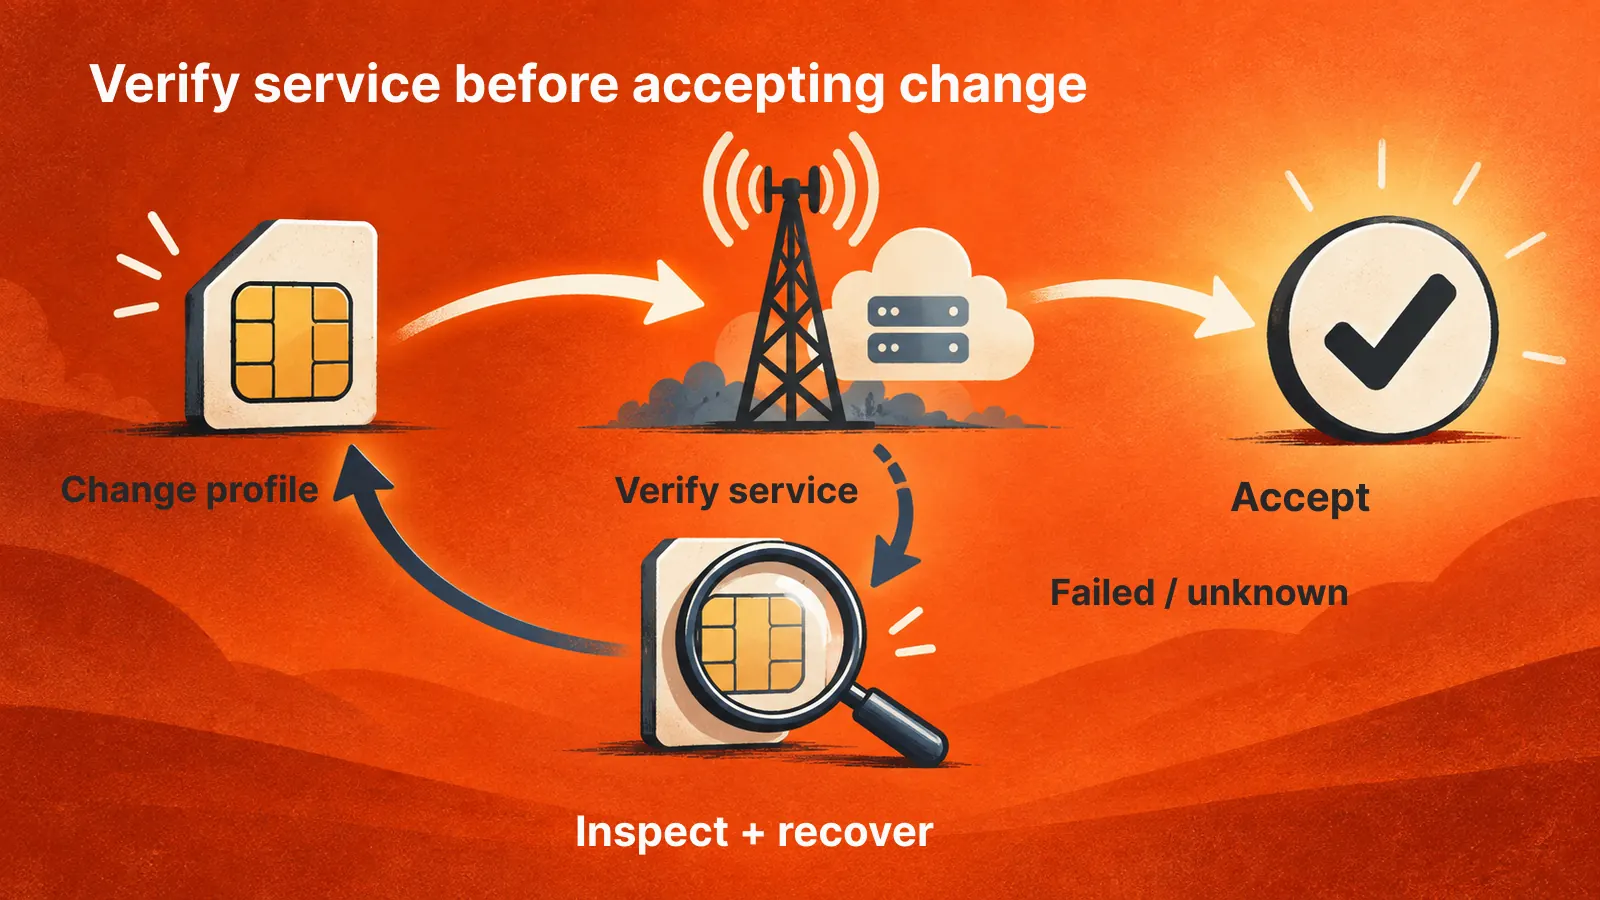
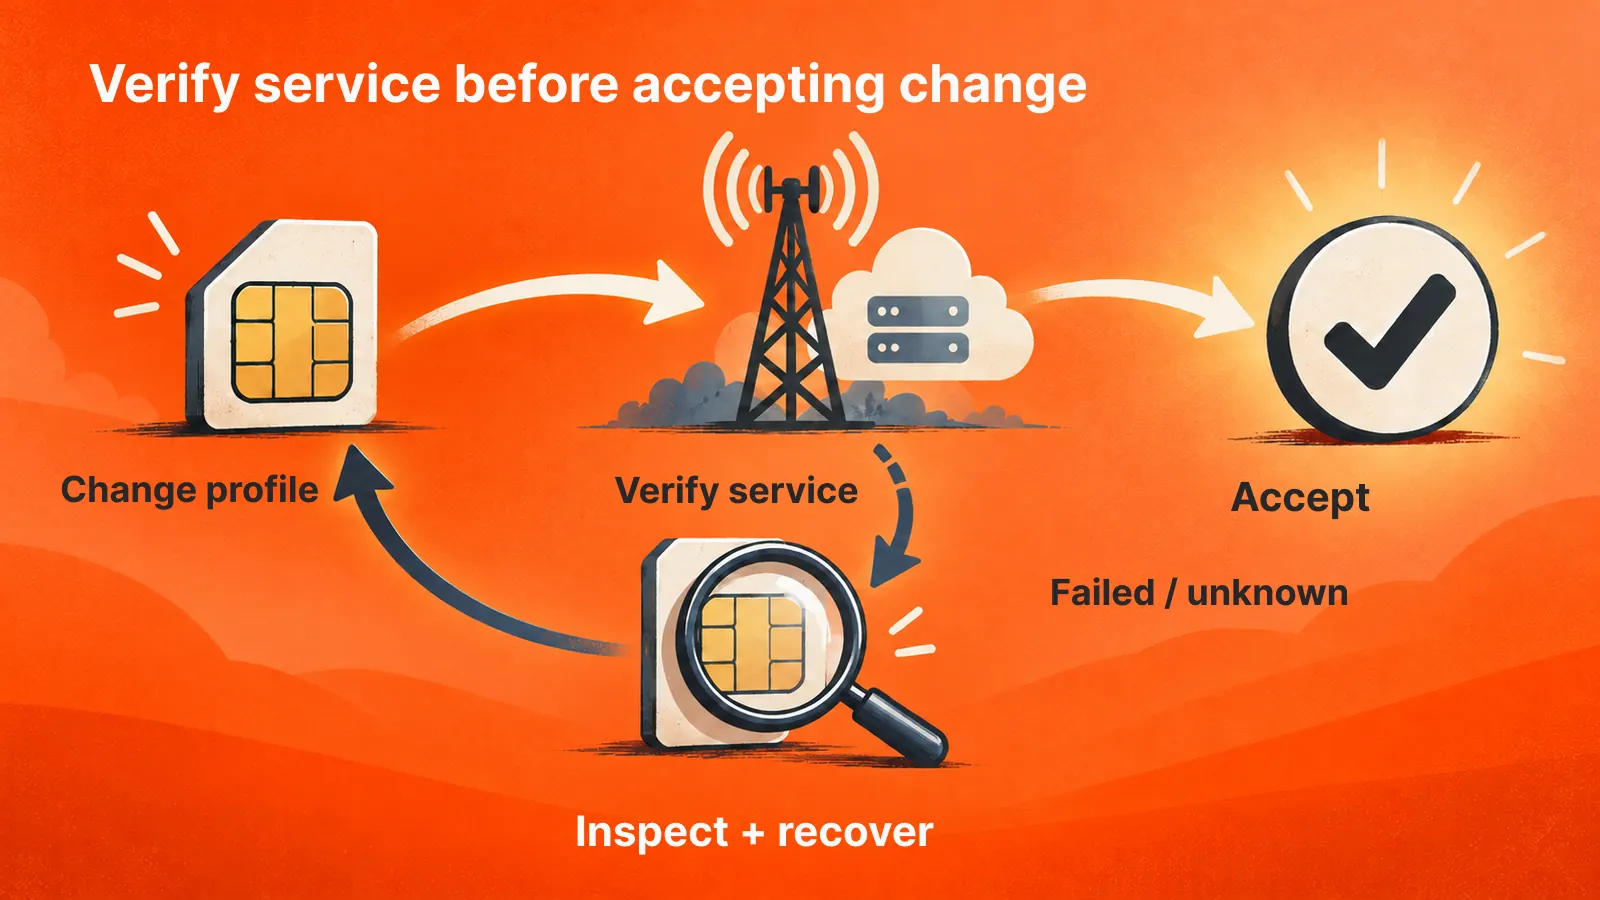
fix(M01): apply four-stop orange palette to body illustrations

diff --git a/docs/merge-research/M01-body-image-rework.md b/docs/merge-research/M01-body-image-rework.md
@@ -46,7 +46,11 @@ The left side is the rejected text-card image. The right side is the useful mech
 
 |Asset|PNG bytes|WebP bytes|
 |---|---:|---:|
-|rsp-profile-hardware-cutaway|802,297|114,742|
-|rsp-service-recovery-loop|858,823|133,110|
+|rsp-profile-hardware-cutaway|710,550|87,250|
+|rsp-service-recovery-loop|757,060|81,924|
 
-Status: M01 direction sample complete; await user confirmation before the remaining 30 clusters. No push or publication.
+Status: direction accepted by the subsequent instruction to continue unattended. No push or publication.
+
+## Four-stop palette correction
+
+The cutaway corners and recovery background visibly carried a brown cast. Both art fields were regenerated with #C63600 as the darkest orange endpoint, then the existing Figma labels were reapplied unchanged. Objects, arrows and information are preserved. Both optimized images were inspected at 1024px: readable labels, intact crops, bright orange fields and no brown vignette. M01 gate passes. The prompt preambles now list only the four approved stops.
